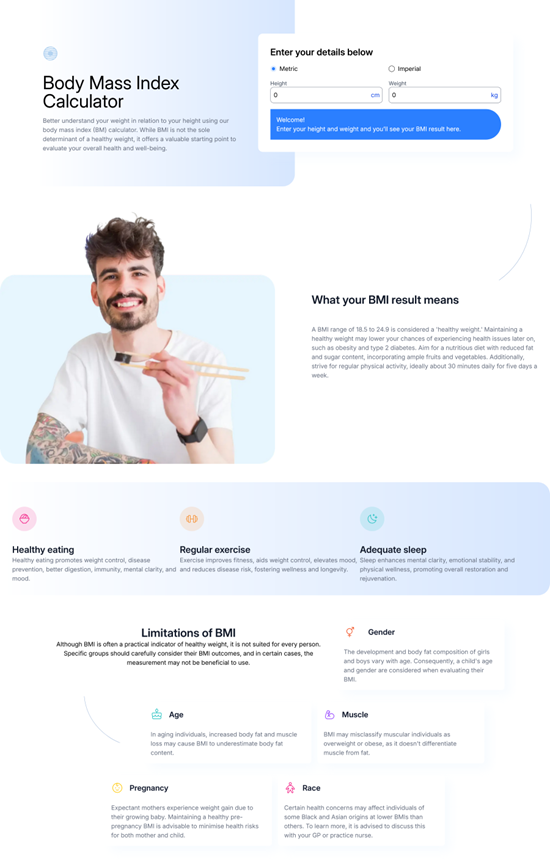
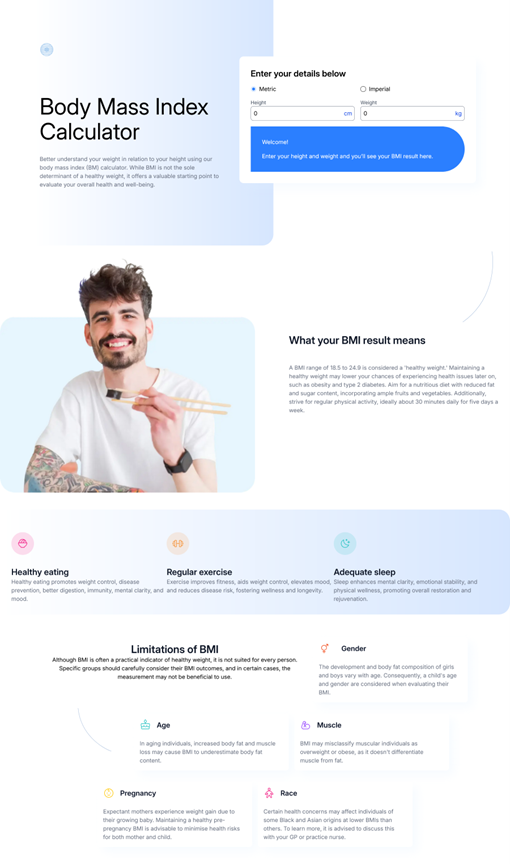
minor styling changes

diff --git a/src/App.scss b/src/App.scss
@@ -1,5 +1,5 @@
 $margin-inline-length: clamp(1.5rem, 14vw - 19px, 6rem);
-
+//$header-font-size: clamp(48px, 2.2vw + 40px, 64px);
 body {
   background-color: transparent;
 }
@@ -32,6 +32,12 @@ main {
   padding-inline: $margin-inline-length;
   border-radius: 0 0 1rem 1rem;
   gap: 2rem;
+
+  h1 {
+    font-size: 48px;
+    line-height: 110%;
+    letter-spacing: -5%;
+  }
 }
 .entry-section {
   margin-inline: $margin-inline-length;
@@ -46,7 +52,10 @@ main {
   background-color: var(--color-blue-500);
   border-radius: 1rem;
   color: white;
-  padding: 1rem;
+  padding: 2rem;
+  & > * + *{
+    margin-top: 1rem;
+  }
 }
 .input-wrapper {
   position: relative;
@@ -182,7 +191,7 @@ input[type='radio']:hover, input[type='radio']:focus {
   .top-container {
     flex-direction: row;
     justify-content: space-between;
-    align-items: start;
+    align-items: end;
     .top-area {
       flex: 1 1 50%;
       margin-left: $margin-inline-length;
@@ -199,16 +208,22 @@ input[type='radio']:hover, input[type='radio']:focus {
       flex: 1 1 50%;
       margin-left: calc($margin-inline-length * -1);
       margin-right: $margin-inline-length;
-      margin-block: 5.5rem;
+      //margin-block: 5.5rem;
     }
   }
   .title-section {
     padding: 0;
     align-items: start;
-    gap: 1rem;
+    gap: 2rem;
+    padding-block: 4.5rem;
+    h1 {
+      font-size: 64px;
+      letter-spacing: normal;
+    }
   }
   .result-means {
     margin-left: 0;
+    margin-top: 10rem;
   }
 
   .recommendation-section {

diff --git a/src/App.css b/src/App.css
@@ -33,6 +33,11 @@ main > * + * {
   border-radius: 0 0 1rem 1rem;
   gap: 2rem;
 }
+.title-section h1 {
+  font-size: 48px;
+  line-height: 110%;
+  letter-spacing: -5%;
+}
 
 .entry-section {
   margin-inline: clamp(1.5rem, 14vw - 19px, 6rem);
@@ -49,7 +54,10 @@ main > * + * {
   background-color: var(--color-blue-500);
   border-radius: 1rem;
   color: white;
-  padding: 1rem;
+  padding: 2rem;
+}
+.welcome-card > * + *, .result-card > * + * {
+  margin-top: 1rem;
 }
 
 .input-wrapper {
@@ -192,7 +200,7 @@ input[type=radio]:hover, input[type=radio]:focus {
   .top-container {
     flex-direction: row;
     justify-content: space-between;
-    align-items: start;
+    align-items: end;
   }
   .top-container .top-area {
     flex: 1 1 50%;
@@ -209,15 +217,20 @@ input[type=radio]:hover, input[type=radio]:focus {
     flex: 1 1 50%;
     margin-left: calc(clamp(1.5rem, 14vw - 19px, 6rem) * -1);
     margin-right: clamp(1.5rem, 14vw - 19px, 6rem);
-    margin-block: 5.5rem;
   }
   .title-section {
     padding: 0;
     align-items: start;
-    gap: 1rem;
+    gap: 2rem;
+    padding-block: 4.5rem;
+  }
+  .title-section h1 {
+    font-size: 64px;
+    letter-spacing: normal;
   }
   .result-means {
     margin-left: 0;
+    margin-top: 10rem;
   }
   .recommendation-section {
     display: flex;

diff --git a/src/components/TitleCard.tsx b/src/components/TitleCard.tsx
@@ -2,7 +2,7 @@
 export default function TitleCard() {
     return (
         <section className='title-section flex flex-col'>
-            <h1 className="text-5xl">Body Mass Index Calculator</h1>
+            <h1>Body Mass Index Calculator</h1>
             <p className="text-gray-500">
                 Better understand your weight in relation to your height using our body mass index 
                 (BM) calculator. While BMI is not the sole determinant of a healthy weight, 
